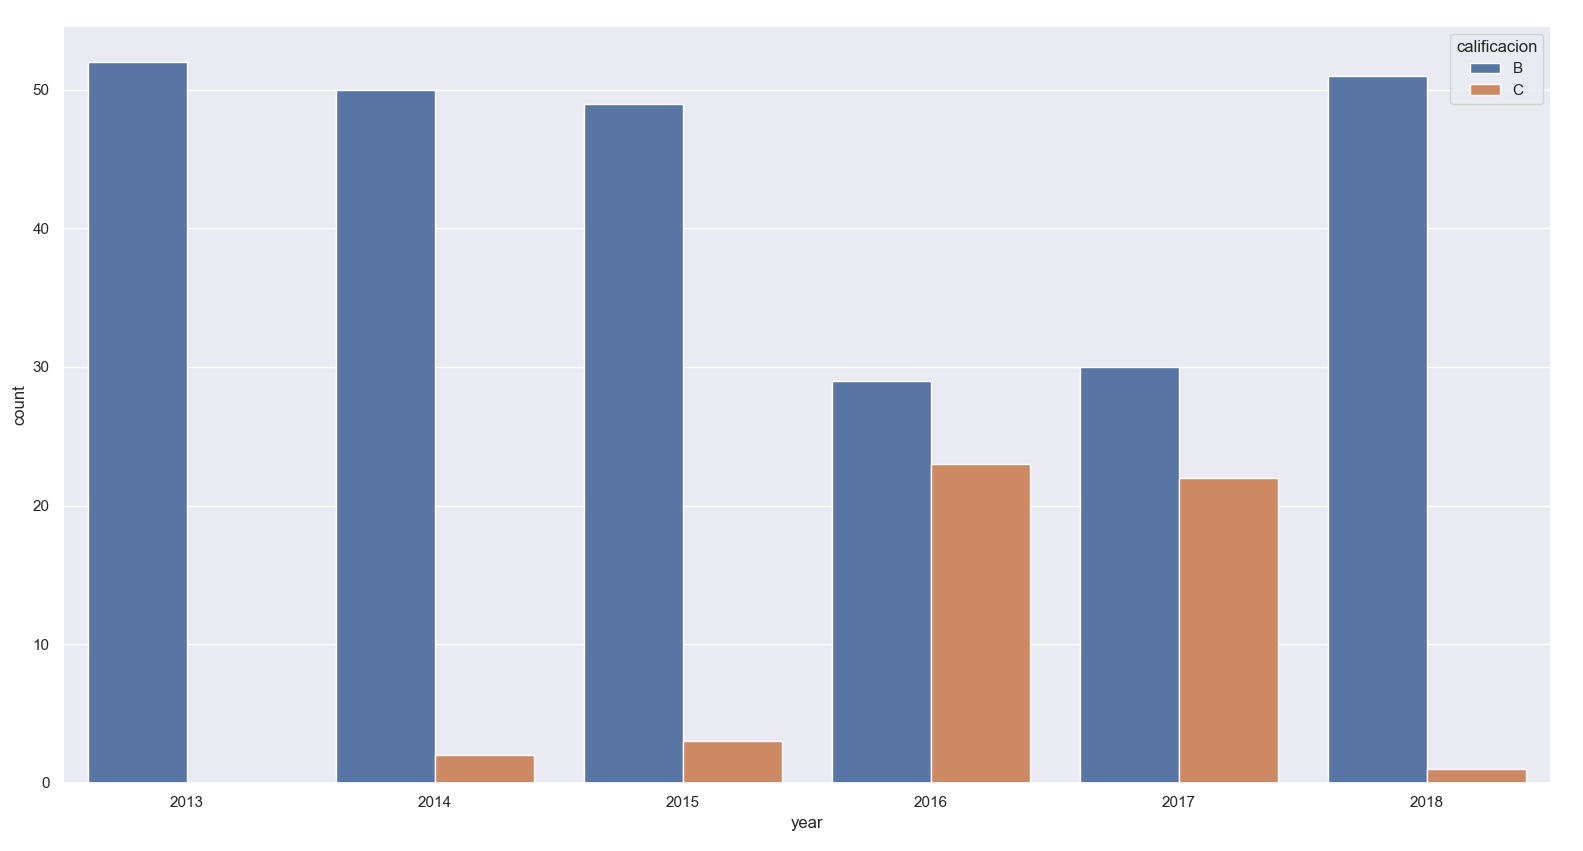
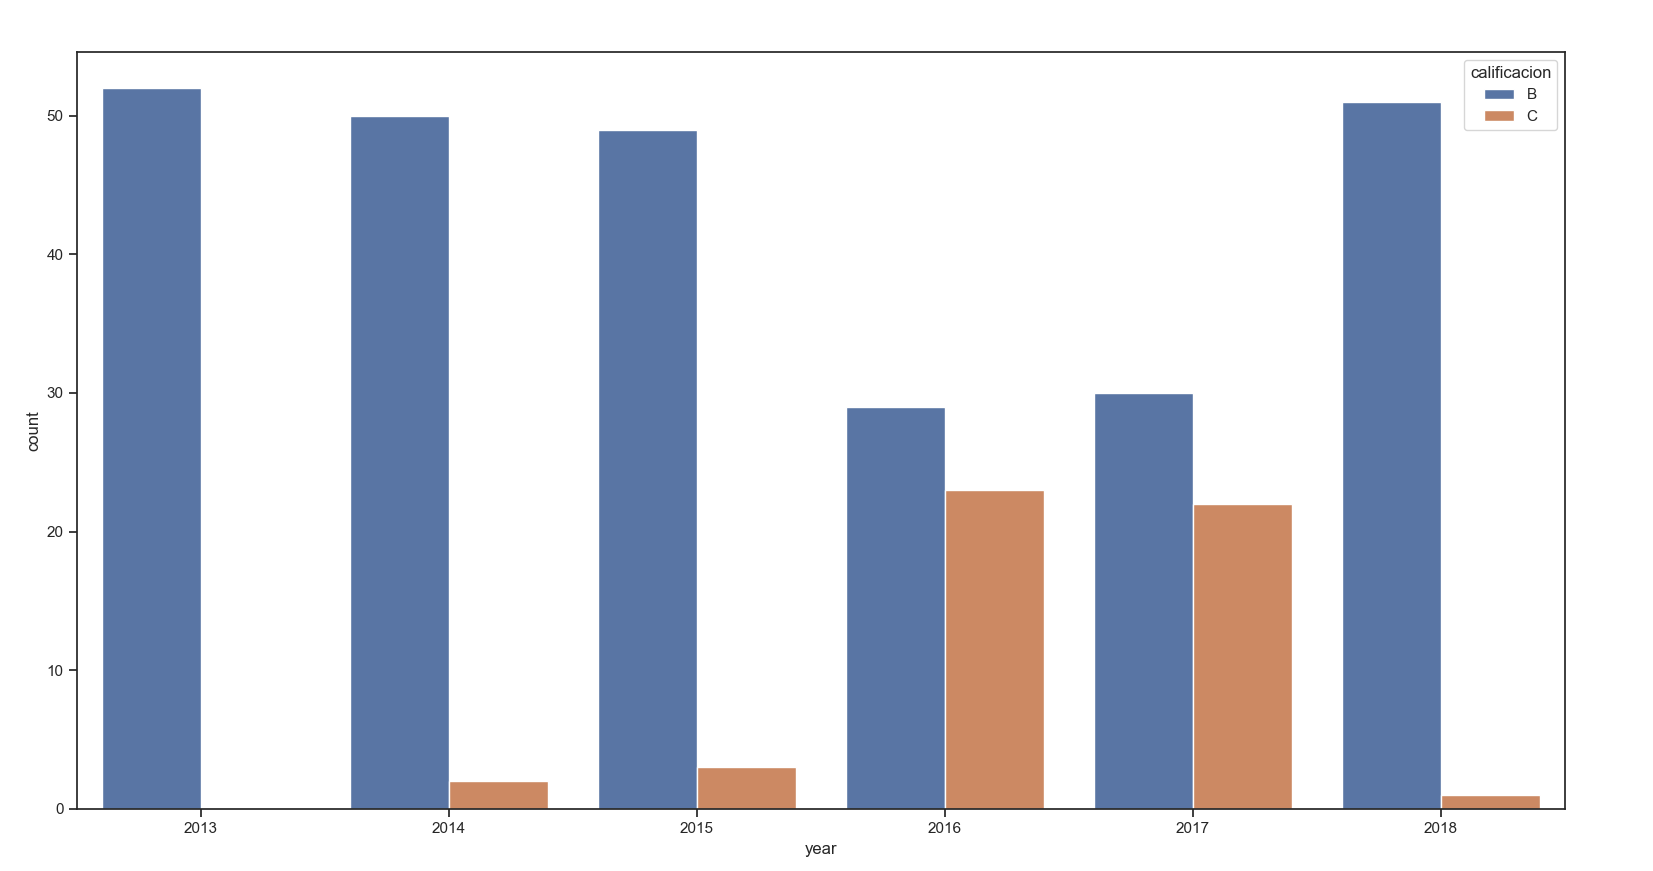
grafos de alumnos vs docentes finalizados

Changed region(s): [[0.0, 0.0306, 0.9905, 0.9777]]

diff --git a/src/main/python/alumnosvsdocentes/barplot_comunas.py b/src/main/python/alumnosvsdocentes/barplot_comunas.py
@@ -1,0 +1,118 @@
+import matplotlib.pyplot as plt
+import pandas as pd
+import numpy as np
+import matplotlib.cm as cm
+import random
+import seaborn as sns
+
+# x = regiones (codigo_region)
+# y = promedio (avg_grades)
+
+df = pd.read_csv(r"D:\\Documentos_U\\2020-1\\Patos\\Proyecto\\chilean-student-performance\\out\\alumnosvsdocentes\\comunasmetropolitana\\results-alumnosvsdocentes-comunas.csv", sep = ';')
+
+
+
+#df.plot()  # plots all columns against index
+#df.plot(kind='scatter',x='codigo_region',y='avg_grades', ) # scatter plot
+#df.plot(kind='density')  # estimate density function
+
+co = [(1, 0.5, 0),
+      (0.85, 0.19, 0.23),
+      (0.15, 0.23, 0.73),
+      (0.13, 0.53, 0.21),
+      (0.5, 0.3, 0.9)]
+
+
+cat_1 = df[df['year']==2013]
+
+
+cat_2 = df[df['year']==2014]
+
+
+cat_3 = df[df['year']==2015]
+
+
+cat_4 = df[df['year']==2016]
+
+
+cat_5 = df[df['year']==2017]
+
+
+cat_6 = df[df['year']==2018]
+
+
+#sns.set(style="darkgrid")
+
+
+
+
+
+
+labels =['Santiago','Cerrillos','Cerro Navia','Conchali','El Bosque','E. Central','Huechuraba','Indepen.','La Cisterna','La Florida','La Granja','La Pintana','La Reina', 'Las Condes','Lo Barnechea','Lo Espejo','Lo Prado','Macul','Maipú','Ñuñoa','P.A.C','Peñalolen','Providencia','Pudahuel','Quilicura','Q. Normal','Recoleta','Renca', 'San Joaquín','San Miguel','San Ramon','Vitacura']
+
+x = []
+fig, ax = plt.subplots()
+
+x = np.arange(32)
+
+
+
+
+
+width = 0.2
+
+m=df[df['year']==2016]
+
+#ax.bar(x - width/2, df[df['year']==2017]['avg_grades_alumnos'], color=([255/255, 109/255, 197/255]),width= width)
+# set x-axis label
+
+m.avg_grades_alumnos.plot(kind='bar', color=([255/255, 109/255, 197/255]), ax=ax, width=width, position=1)
+ax.set_xlabel("Comunas",fontsize=14)
+# set y-axis label
+ax.set_ylabel("Promedio Alumnos",color=([255/255, 109/255, 197/255]),fontsize=14)
+ax.set_ylim([1, 7])
+
+
+# twin object for two different y-axis on the sample plot
+ax2=ax.twinx()
+# make a plot with different y-axis using second axis object
+#ax2.bar(x + width/2, df[df['year']==2017]['avg_grades_docentes'],color=([84/255, 88/255, 255/255]),width= width)
+m.avg_grades_docentes.plot(kind='bar', color=([84/255, 88/255, 255/255]), ax=ax2, width=width, position=0)
+ax2.set_ylabel("Promedio Docentes",color=([84/255, 88/255, 255/255]),fontsize=14)
+ax2.set_ylim([1, 4])
+plt.xlabel("Comunas")
+
+plt.xlim([-1,32])
+ax.set_xticks(x)
+ax.set_xticklabels(labels)
+plt.title("Rendimiento alumnos y docentes por comunas de Santiago (2016)")
+
+plt.show()
+# save the plot as a file
+
+"""
+
+X = df[df['year']==2017]['region']
+color=(random.random(), random.random(), random.random(), 1.0)
+#X = X + np.random.normal(size=X.shape)*0.07
+Y = df[df['year']==2017]['avg_grades_alumnos']
+#Y = Y + np.random.normal(size=X.shape)*0.03
+
+
+
+X2 = df[df['year']==2017]['region']
+#X = X + np.random.normal(size=X.shape)*0.07
+Y2 = df[df['year']==2017]['avg_grades_docentes']
+#Y = Y + np.random.normal(size=X.shape)*0.03
+plt.bar(X, Y,secondary_y= Y2, alpha=0.5)
+
+
+plt.xlabel("Regiones")
+plt.ylabel("Promedios")
+plt.title("Rendimientos alumnos y docentes por region (2017)")
+plt.legend(['Alumnos','Regiones','III','IV','V','VI','VII','VIII','IX','X','XI','XIII','RM', 'XIV','XV'
+            ], framealpha=1)
+
+
+plt.show()
+"""

diff --git a/src/main/python/alumnosvsdocentes/barplot_regiones.py b/src/main/python/alumnosvsdocentes/barplot_regiones.py
@@ -1,0 +1,118 @@
+import matplotlib.pyplot as plt
+import pandas as pd
+import numpy as np
+import matplotlib.cm as cm
+import random
+import seaborn as sns
+import itertools
+# x = regiones (codigo_region)
+# y = promedio (avg_grades)
+
+df = pd.read_csv(r"D:\\Documentos_U\\2020-1\\Patos\\Proyecto\\chilean-student-performance\\out\\alumnosvsdocentes\\regiones\\results-alumnosvsdocentes-region.csv", sep = ';')
+
+
+
+#df.plot()  # plots all columns against index
+#df.plot(kind='scatter',x='codigo_region',y='avg_grades', ) # scatter plot
+#df.plot(kind='density')  # estimate density function
+
+co = [(1, 0.5, 0),
+      (0.85, 0.19, 0.23),
+      (0.15, 0.23, 0.73),
+      (0.13, 0.53, 0.21),
+      (0.5, 0.3, 0.9)]
+
+
+cat_1 = df[df['year']==2013]
+
+
+cat_2 = df[df['year']==2014]
+
+
+cat_3 = df[df['year']==2015]
+
+
+cat_4 = df[df['year']==2016]
+
+
+cat_5 = df[df['year']==2017]
+
+
+cat_6 = df[df['year']==2018]
+
+
+#sns.set(style="darkgrid")
+
+
+
+
+
+
+labels =['I','II','III','IV','V','VI','VII','VIII','IX','X','XI','XII','RM', 'XIV','XV']
+
+x = np.arange(15)
+
+fig, ax = plt.subplots()
+
+
+
+width = 0.35
+
+m=df[df['year']==2016]
+
+m.avg_grades_alumnos.plot(kind='bar', color=([255/255, 109/255, 197/255]), ax=ax, width=width, position=1)
+
+
+
+#ax.bar(x=df[df['year']==2017]['region']-width, y=df[df['year']==2017]['avg_grades_alumnos'], color=([255/255, 109/255, 197/255]),width= width, height = 10)
+# set x-axis label
+ax.set_xlabel("Regiones",fontsize=14)
+# set y-axis label
+ax.set_ylabel("Promedio Alumnos",color=([255/255, 109/255, 197/255]),fontsize=14)
+ax.set_ylim([1, 7])
+
+
+# twin object for two different y-axis on the sample plot
+ax2=ax.twinx()
+# make a plot with different y-axis using second axis object
+m.avg_grades_docentes.plot(kind='bar', color=([84/255, 88/255, 255/255]), ax=ax2, width=width, position=0)
+#ax2.bar(x=df[df['year']==2017]['region']+width, y=df[df['year']==2017]['avg_grades_docentes'],color=([84/255, 88/255, 255/255]),width= width, height = 10)
+
+ax2.set_ylabel("Promedio Docentes",color=([84/255, 88/255, 255/255]),fontsize=14)
+ax2.set_ylim([1, 4])
+plt.xlabel("Regiones")
+ax.set_xticks(x)
+ax.set_xticklabels(labels)
+plt.xlim([-1,15])
+plt.title("Rendimiento alumnos y docentes por region (2016)")
+
+
+plt.show()
+# save the plot as a file
+
+"""
+
+X = df[df['year']==2017]['region']
+color=(random.random(), random.random(), random.random(), 1.0)
+#X = X + np.random.normal(size=X.shape)*0.07
+Y = df[df['year']==2017]['avg_grades_alumnos']
+#Y = Y + np.random.normal(size=X.shape)*0.03
+
+
+
+X2 = df[df['year']==2017]['region']
+#X = X + np.random.normal(size=X.shape)*0.07
+Y2 = df[df['year']==2017]['avg_grades_docentes']
+#Y = Y + np.random.normal(size=X.shape)*0.03
+plt.bar(X, Y,secondary_y= Y2, alpha=0.5)
+
+
+plt.xlabel("Regiones")
+plt.ylabel("Promedios")
+plt.title("Rendimientos alumnos y docentes por region (2017)")
+plt.legend(['Alumnos','Regiones','III','IV','V','VI','VII','VIII','IX','X','XI','XIII','RM', 'XIV','XV'
+            ], framealpha=1)
+
+
+plt.show()
+"""

diff --git a/src/main/python/alumnosvsdocentes/scatterplot_comunas.py b/src/main/python/alumnosvsdocentes/scatterplot_comunas.py
@@ -48,12 +48,17 @@ colormap = np.array(['r', 'g', 'b'])
 colors = cm.rainbow(np.linspace(0, 1, 15))
 
 for i in range(13101,13133):
-    X = df[df['cod_comuna']==i][df['year']==2017]['avg_grades_docentes']
-    color=(random.random(), random.random(), random.random(), 1.0)
+    X = df[df['cod_comuna']==i][df['year']==2013]['avg_grades_docentes']
+
     #X = X + np.random.normal(size=X.shape)*0.07
-    Y = df[df['cod_comuna']==i][df['year']==2017]['avg_grades_alumnos']
+    Y = df[df['cod_comuna']==i][df['year']==2013]['avg_grades_alumnos']
     #Y = Y + np.random.normal(size=X.shape)*0.03
+    if (i == 13113 or i == 13114 or i == 13115 or i == 13123 or i == 13132):
+        color = "r"
+    else:
+        color=(random.random(), random.random(), random.random(), 1.0)
     plt.scatter(X, Y,color= color,alpha=0.5, label=df['nomb_comuna'], zorder=i,  marker='s', s=14)
+
 
 
 
@@ -61,9 +66,9 @@ plt.xlim([2,3])
 plt.ylim([5,6.5])
 plt.xlabel("Promedio Docentes")
 plt.ylabel("Promedio Alumnos")
-plt.title("Rendimientos alumnos y docentes por comunas de santiago (2017)")
-plt.legend(['Santiago','Cerrillos','Cerro Navia','Conchali','El Bosque','Estación Central','Huechuraba','Independencia','La Cisterna','La Florida','La Granja','La Pintana','La Reina', 'Las Condes','Lo Barnechea','Lo Espejo','Macul','Maipú','Ñuñoa','Pedro Aguirre Cerda','Peñalolen','Providencia','Pudahuel','Quilicura','Quinta Normal','Recoleta','Renca', 'San Joaquín','San Ramon','Vitacura'
-            ], framealpha=1)
+plt.title("Rendimientos alumnos y docentes por comunas de santiago (2013)")
+plt.legend(['Santiago','Cerrillos','Cerro Navia','Conchali','El Bosque','E. Central','Huechuraba','Indepen.','La Cisterna','La Florida','La Granja','La Pintana','La Reina', 'Las Condes','Lo Barnechea','Lo Espejo','Lo Prado','Macul','Maipú','Ñuñoa','P.A.C','Peñalolen','Providencia','Pudahuel','Quilicura','Q. Normal','Recoleta','Renca', 'San Joaquín','San Miguel','San Ramon','Vitacura']
+            , framealpha=1)
 
 
 

diff --git a/src/main/python/alumnos/scatterplot_establecimientos.py b/src/main/python/alumnos/scatterplot_establecimientos.py
@@ -42,7 +42,7 @@ cat_6 = df[df['year']==2018]
 
 
 
-for i in range(2016,2019):
+for i in range(2018,2019):
     X = df[df['year']==i]['avg_grades']
     #X = X + np.random.normal(size=X.shape)*0.07
     Y = df[df['year']==i]['avg_assistance']
@@ -53,8 +53,8 @@ plt.xlim([1,7])
 plt.ylim([1,100])
 plt.xlabel("Promedio Final Alumnos")
 plt.ylabel("Asistencia")
-plt.title("Rendimientos alumnos y su asistencia por establecimiento (2016-2018)")
-plt.legend(['2016','2017','2018'
+plt.title("Rendimientos alumnos y su asistencia por establecimiento (2018)")
+plt.legend(['2018'
             ], framealpha=0.5)
 
 

diff --git a/src/main/python/alumnos/barplot_yearly_grades.py b/src/main/python/alumnos/barplot_yearly_grades.py
@@ -44,11 +44,11 @@ X = df['year']
 #X = X + np.random.normal(size=X.shape)*0.07
 Y = df['avg_grades']
 #Y = Y + np.random.normal(size=X.shape)*0.03
-plt.bar(X, Y, width=0.8, bottom=None, align='center', data=None)
+plt.bar(X, Y, width=0.8, bottom=None, align='center', data=None, color =([255/255, 109/255, 197/255]))
 
 
 plt.xlim([2002,2019])
-plt.ylim([1,7])
+plt.ylim([5,7])
 plt.xlabel("Años")
 plt.ylabel("Promedio Final Alumnos")
 plt.title("Rendimientos alumnos por año (2003-2018)")

diff --git a/src/main/python/alumnos/barplot_yearly_assistance.py b/src/main/python/alumnos/barplot_yearly_assistance.py
@@ -44,11 +44,11 @@ X = df['year']
 #X = X + np.random.normal(size=X.shape)*0.07
 Y = df['avg_assistance']
 #Y = Y + np.random.normal(size=X.shape)*0.03
-plt.bar(X, Y, width=0.8, bottom=None, align='center', data=None)
+plt.bar(X, Y, width=0.8, bottom=None, align='center', data=None, color= ([84/255, 88/255, 255/255]))
 
 
 plt.xlim([2002,2019])
-plt.ylim([50,100])
+plt.ylim([70,100])
 plt.xlabel("Años")
 plt.ylabel("Asistencia")
 plt.title("Asistencia alumnos por año (2003-2018)")

diff --git a/src/main/python/docentes/barplot_metro_rank_count.py b/src/main/python/docentes/barplot_metro_rank_count.py
@@ -39,8 +39,7 @@ cat_5 = df[df['year']==2017]
 
 cat_6 = df[df['year']==2018]
 
-sns.set(style="darkgrid")
-
+sns.set(style='ticks')
 ax = sns.countplot(x="year", hue="calificacion" ,data=df)
 
 plt.show()

diff --git a/src/main/python/docentes/barplot_region_rank_count.py b/src/main/python/docentes/barplot_region_rank_count.py
@@ -39,8 +39,7 @@ cat_5 = df[df['year']==2017]
 
 cat_6 = df[df['year']==2018]
 
-sns.set(style="darkgrid")
-
+sns.set(style='ticks')
 ax = sns.countplot(x="year", hue="calificacion" ,data=df)
 
 plt.show()

diff --git a/src/main/python/docentes/barplot_yearly_rank_count.py b/src/main/python/docentes/barplot_yearly_rank_count.py
@@ -39,7 +39,8 @@ cat_5 = df[df['year']==2017]
 
 cat_6 = df[df['year']==2018]
 
-sns.set(style="darkgrid")
+sns.set(style='ticks')
+
 
 ax = sns.countplot(x="year", hue="calificacion" ,data=df)
 
